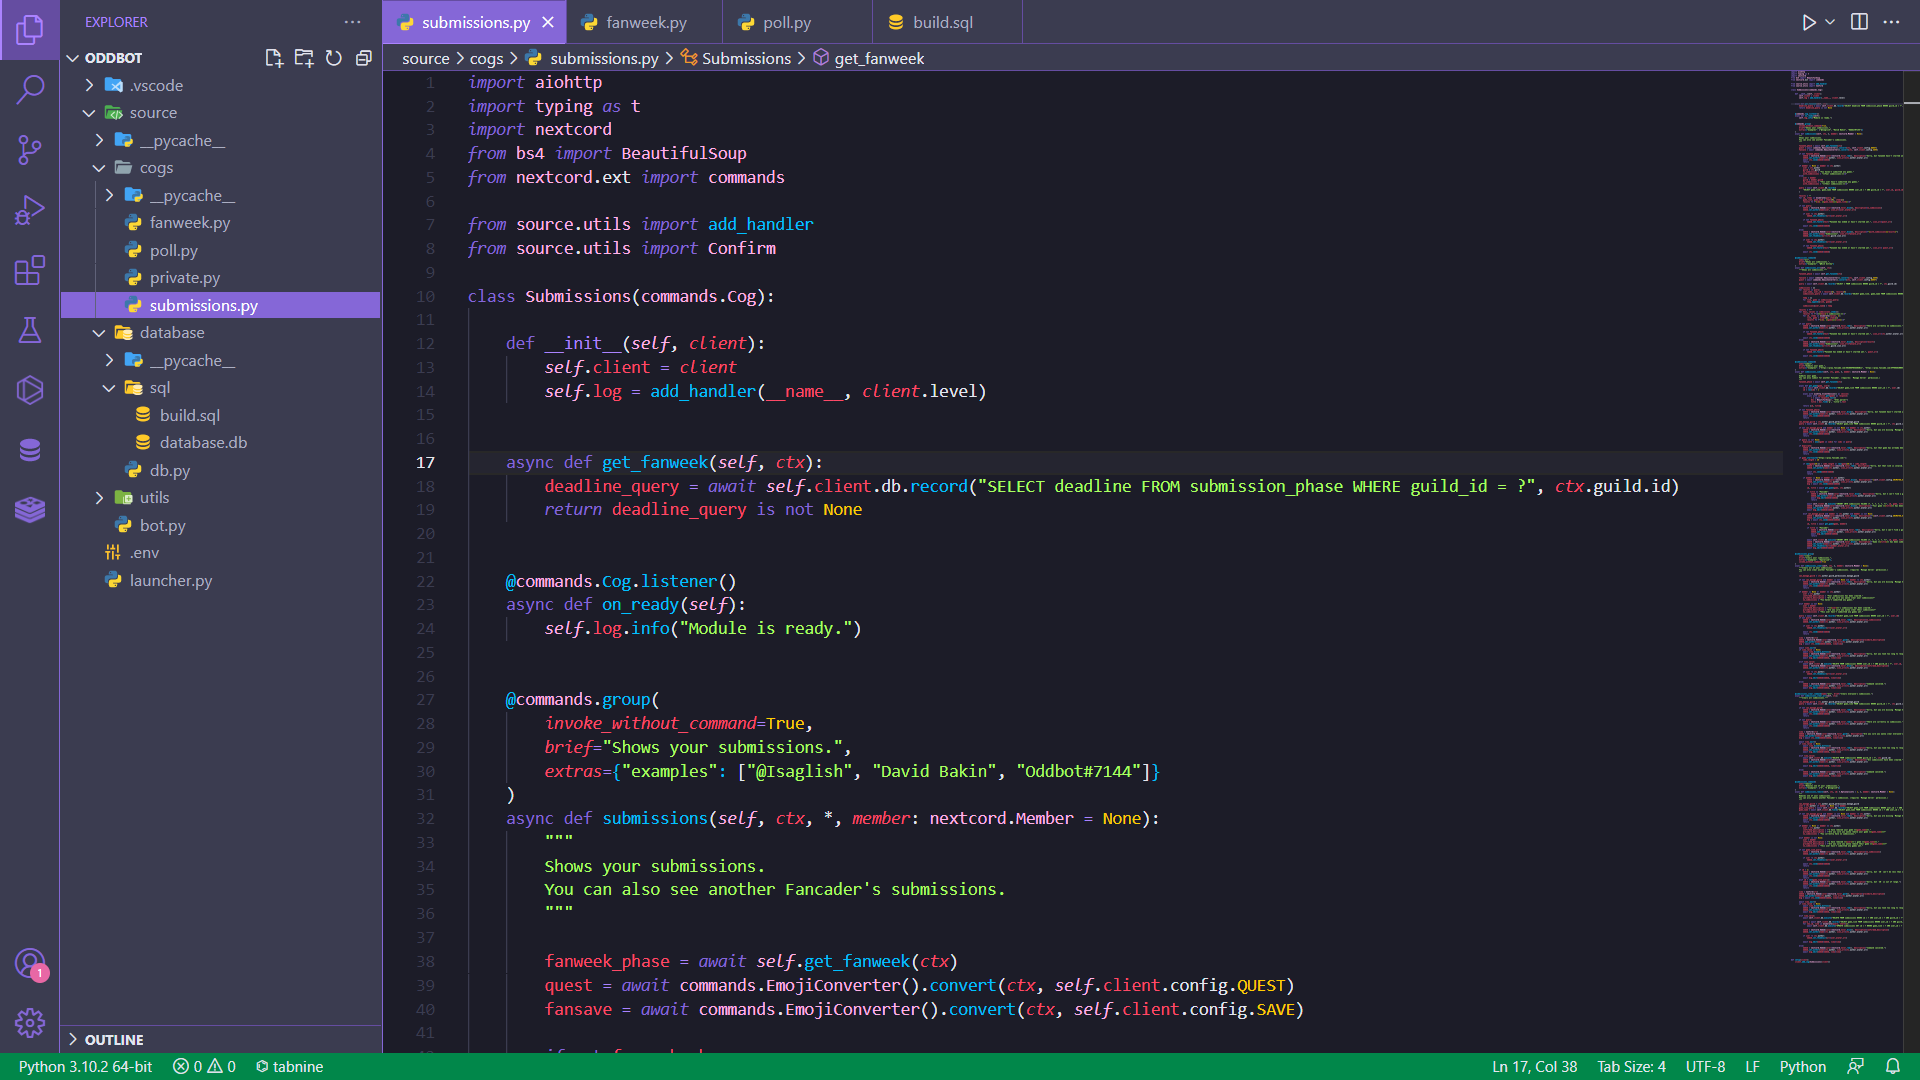
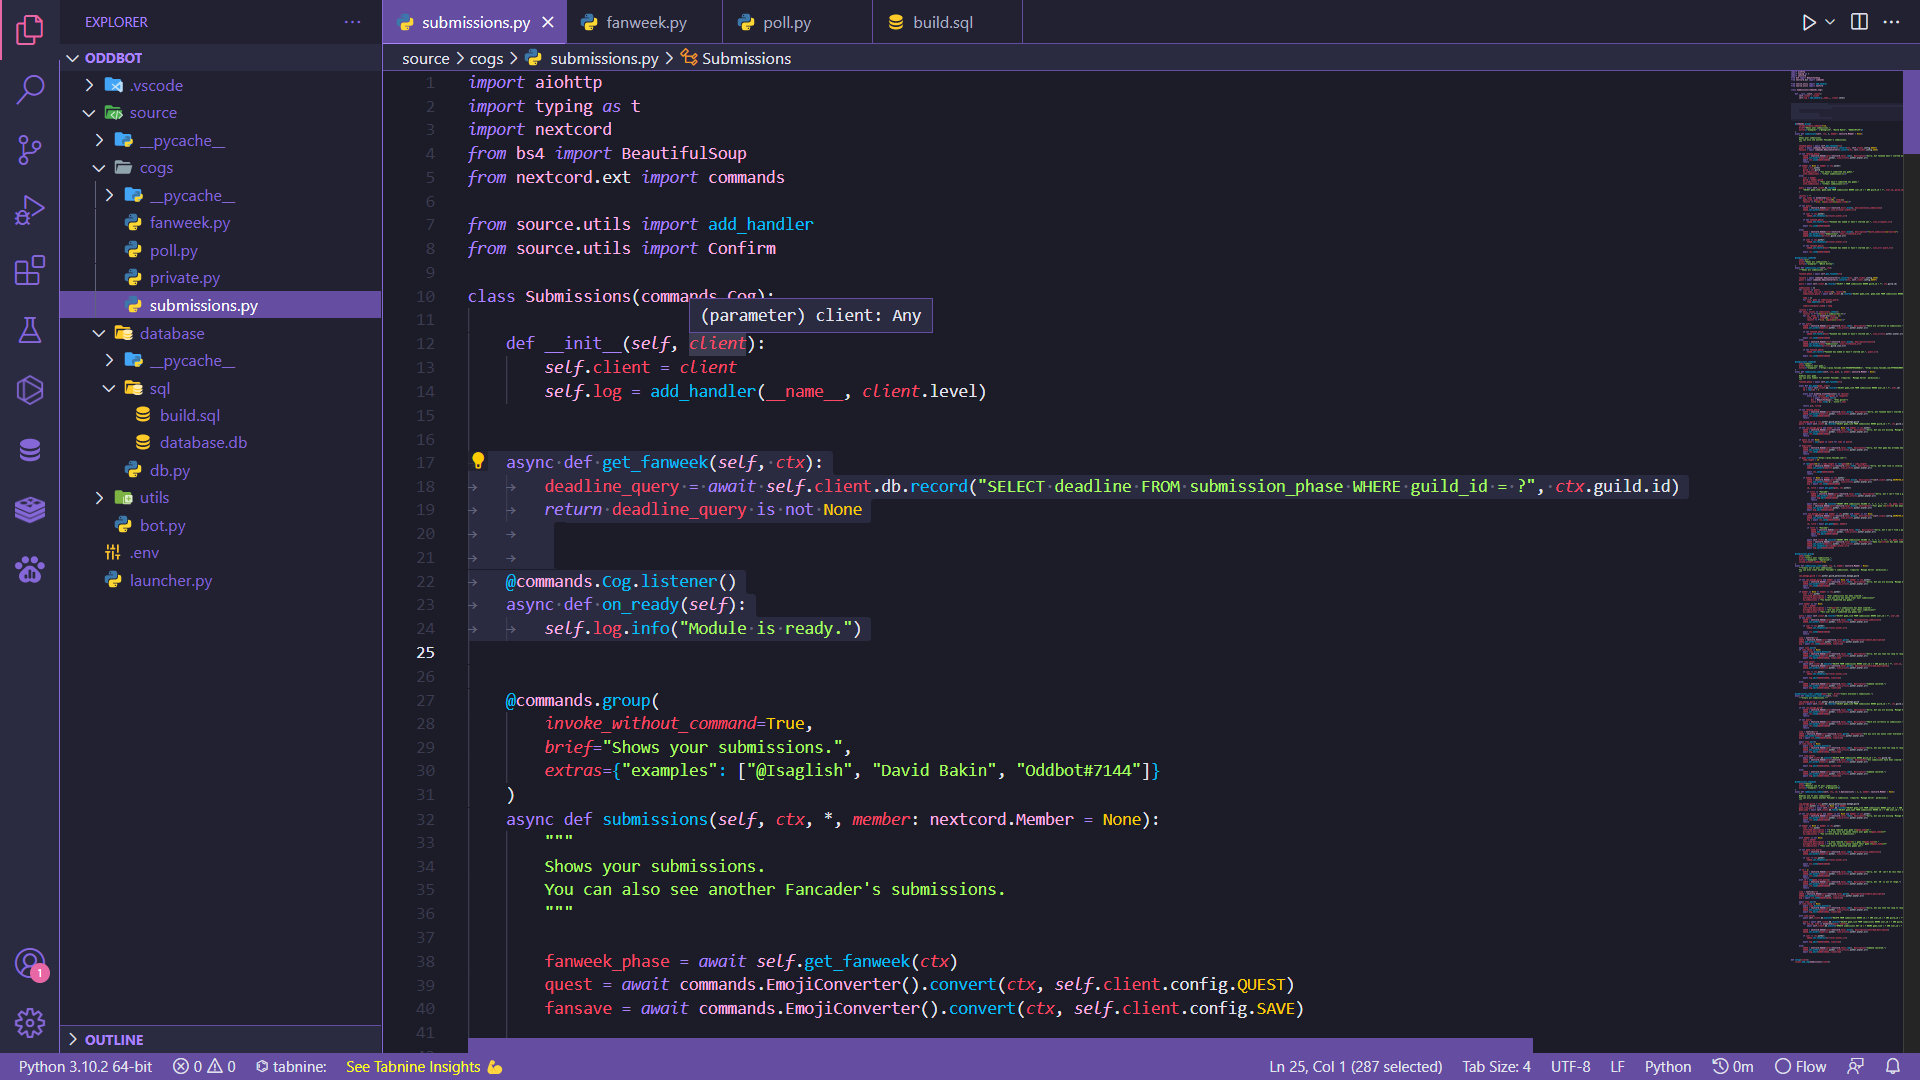
Major Change

diff --git a/CHANGELOG.md b/CHANGELOG.md
@@ -13,3 +13,19 @@
 - Added showcase image
 - Updated package.json : desciption
 - Updated README.md
+
+### v.2.0.2
+- Edited the Screenshots
+- Edited Suggest Widget
+    - Diff Editor
+    - Hover Widget
+    - Peek View Editor
+    - Side Bar
+    - Editor
+    - Syntax
+    - Status Bar
+    - Tabs
+    - Input Option
+    - Terminal Panel
+    - Breadcrumb
+    - Scroll Bars
